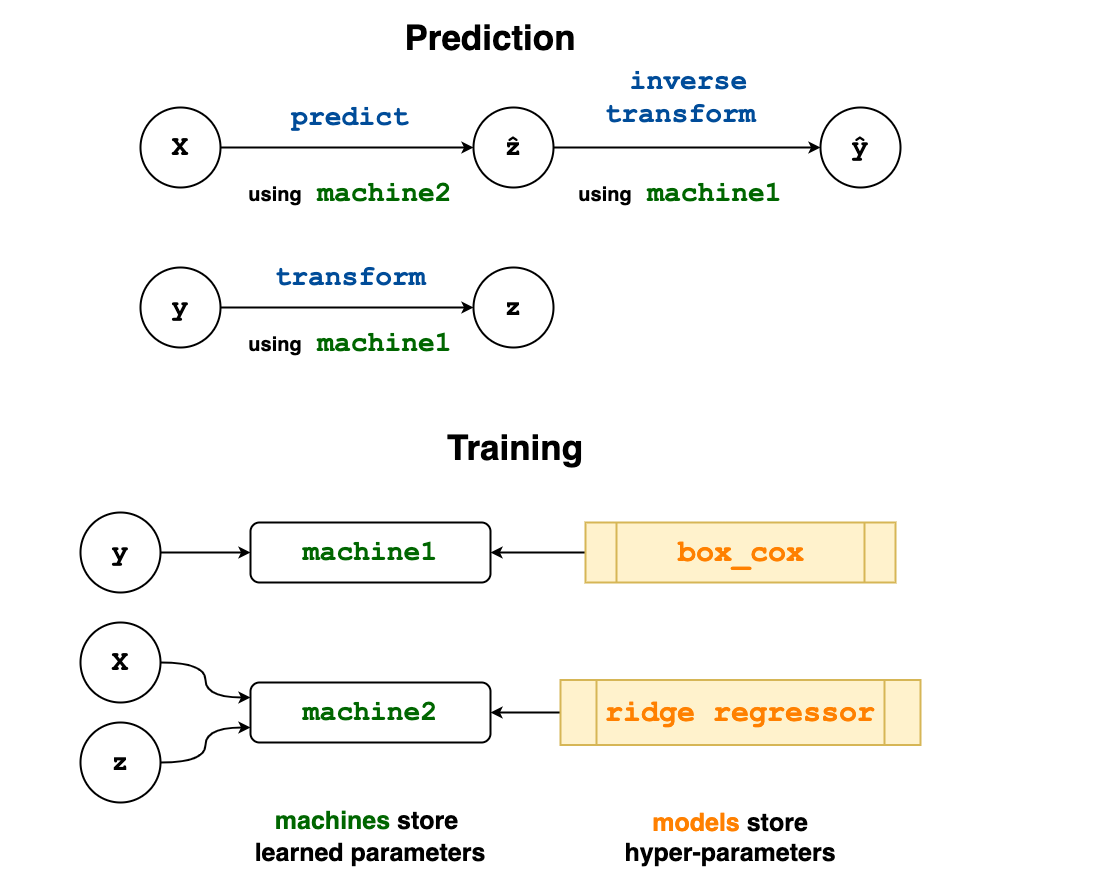
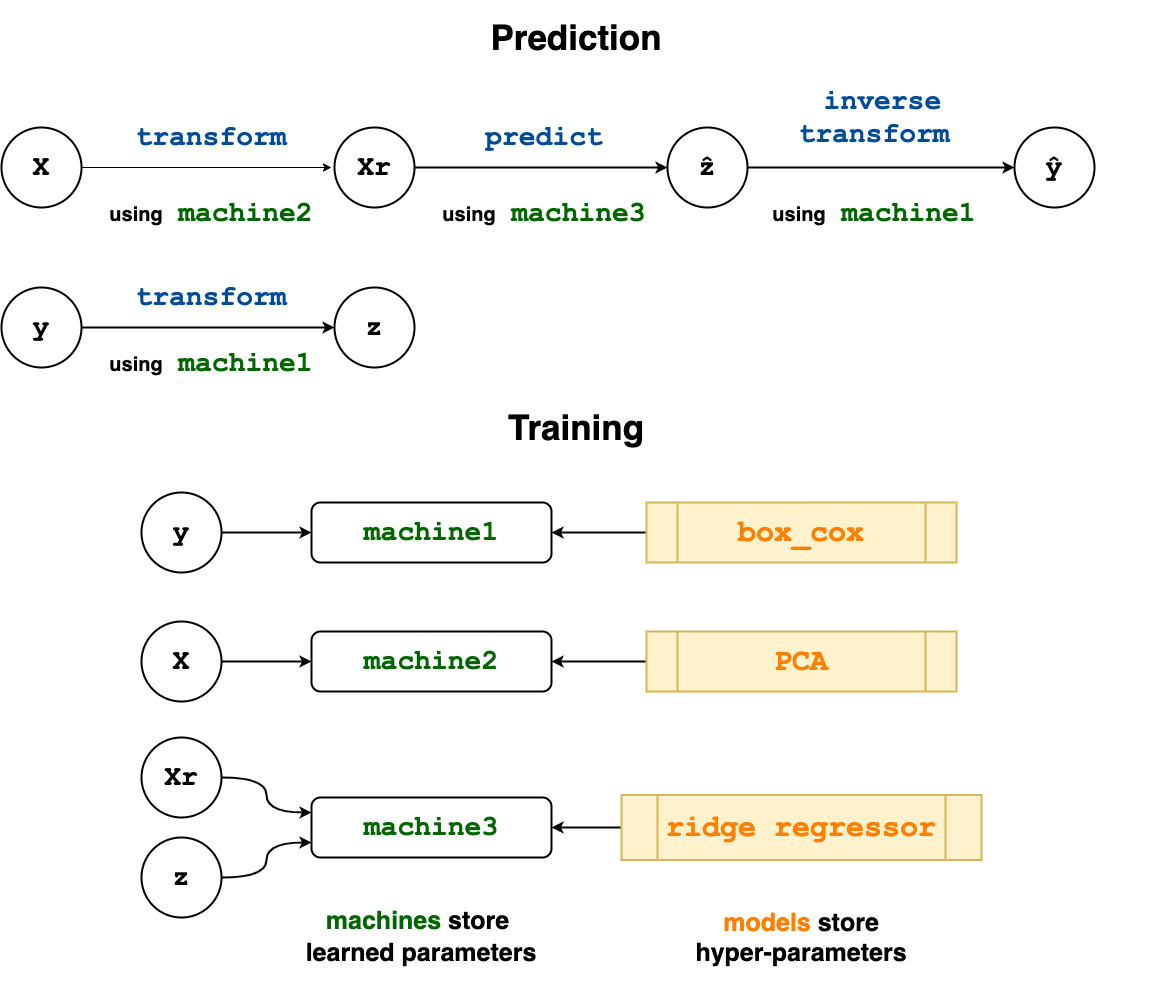
update composite example, including figure, to make less trivial

diff --git a/paper/paper.md b/paper/paper.md
@@ -491,24 +491,25 @@ work-flow for single models. There is no need for the user to provide
 production training data in this process. A dummy data set suffices,
 for the purposes of testing the learning network as it is built.
 
-<!-- ![Specifying prediction and training flows in a simple learning network. The network shown combines a ridge regressor with a learned target transformation (Box Cox).\label{fig2}](target_transformer.svg) -->
-![Specifying prediction and training flows in a simple learning network. The network shown combines a ridge regressor with a learned target transformation (Box Cox).\label{fig2}](target_transformer.png)
+<!-- ![Specifying prediction and training flows in a simple learning network. The network shown combines a ridge regressor with a learned target transformation (Box Cox).\label{fig2}](target_transformerVERTICAL.svg) -->
+![Specifying prediction and training flows in a simple learning network. The network shown combines a ridge regressor with a learned target transformation (Box Cox).\label{fig2}](target_transformerVERTICAL.png)
 
 The upper panel of \autoref{fig2} illustrates a simple learning
 network in which a continuous target `y` is "normalized" using a
-learned Box Cox transformation, producing `z`. Ridge regression is
-applied to input features `X` to make a target prediction `ẑ`, which
-is not the final overall prediction of the network, as the ridge
-regressor is to be trained using the *transformed* target `z` (see the
-lower panel).  Rather, the final prediction `ŷ` is the inverse Box Cox
-transform of `z`.
+learned Box Cox transformation, producing `z`, while PCA dimension
+reduction is applied to some features `X`, to obtain `Xr`. A Ridge
+regressor, trained using data from `Xr` and `z`, is then applied to
+`Xr` to make a target prediction `ẑ`. To obtain a final prediction
+`ŷ`, we apply the *inverse* of the Box Cox transform, learned
+previously, to `ẑ`.
 
 The lower "training" panel of the figure shows the two machines which
 will store the parameters learned in training - the Box Cox exponent
-and shift (`machine1`) and the ridge model coefficients
-(`machine2`). The diagram additionally indicates where the machines
-should look for training data, and where to accesses model
-hyper-parameters (stored in `box_cox` and `ridge_regressor`).
+and shift (`machine1`), the PCA projection (`machine2`) and the ridge
+model coefficients and intercept (`machine3`). The diagram
+additionally indicates where machines should look for training data,
+and where to accesses model hyper-parameters (stored in `box_cox`,
+`PCA` and `ridge_regressor`).
 
 The only syntactic difference between composing "by hand" and building
 a learning network is that the training data must be wrapped in
